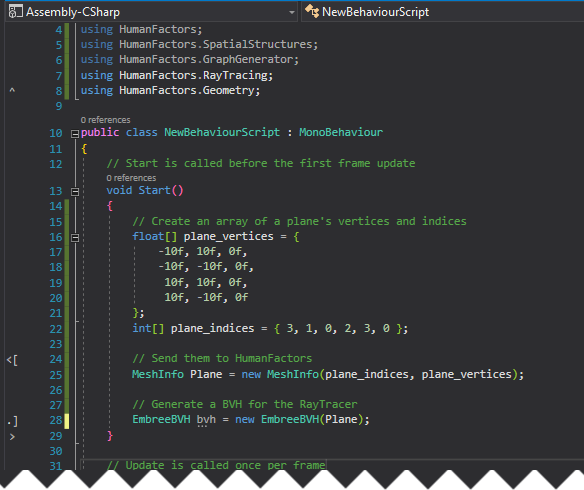
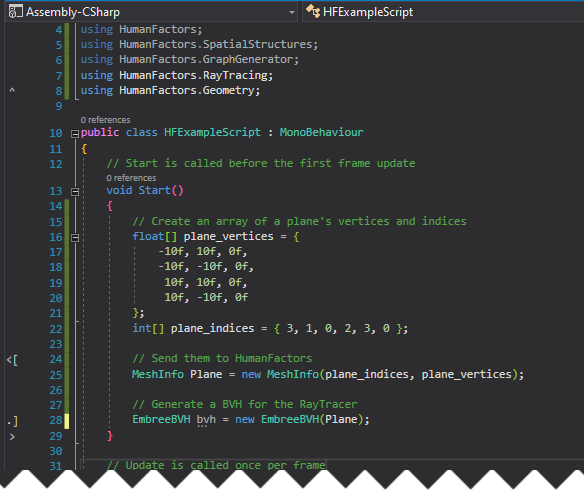
Update images, revise format to match others.

Changed region(s): [[0.2774, 0.2449, 0.6473, 0.2755], [0.524, 0.0, 0.7397, 0.0306]]

diff --git a/docs/C# Documentation/markdown/3_graph_generator.md b/docs/C# Documentation/markdown/3_graph_generator.md
@@ -9,6 +9,7 @@ Next Tutorial: [Passing a Mesh From Unity to HumanFactors](@ref MeshFromUnity)
   - [Intro](#intro)
     - [Conceptual Overview](#conceptual-overview)
   - [Simple Graph Generation](#simple-graph-generation)
+    - [Using Declarations](#using-declarations)
     - [Creating the Plane](#creating-the-plane)
     - [Generating the Graph](#generating-the-graph)
     - [Retrieving A list of nodes](#retrieving-a-list-of-nodes)
@@ -39,7 +40,20 @@ For now, we will begin with the minimum required settings to run the Graph Gener
 2. A point to start graph generation at.
 3. The spacing between nodes.
 
-To get started, we will once again set up our using declarations to import the functionality we need.
+
+![HFExampleScriptBlank](../assets/walkthroughs/unity/2_raycast_at_plane/blank_new_behaviour_script.png)
+
+*Figure* **3.1** *Blank HFExampleScript.cs*
+
+To begin: open up the blank HFExample Script that we created in the project setup by double clicking on it in the Unity editor if it isn't open already. 
+
+### Using Declarations
+
+![Using Declarations](../assets/walkthroughs/unity/3_graph_generator/using_declarations.png)
+
+*Figure* **3.2** *Using declarations for this tutorial*
+
+To get started, we will once again set up our using declarations to import the functionality we need, starting on line 3 of our blank script. 
 
 ```{.cs}
 using HumanFactors;
@@ -49,11 +63,9 @@ using HumanFactors.GraphGenerator;
 using HumanFactors.RayTracing;
 ```
 
-![Using Declarations](../assets/walkthroughs/unity/3_graph_generator/using_declarations.png)
-
 ### Creating the Plane
 
-Internally, the graph uses the *EmbreeRayTracer* which requires a BVH, so we can follow the process as the [Project 2A](@ref UsingTheRayTracer) to create a plane, then generate a BVH from it.
+Internally, the graph uses the *EmbreeRayTracer* which requires a BVH, so we can follow the process as the [Project 2A](@ref UsingTheRayTracer) to create a plane, then generate a BVH from it. If you want a more in depth explanation of this code, please look at the previous tutorial if you want more information about this code.
 
 Add the following code in the body of the Start function on line 13:
 
@@ -81,7 +93,7 @@ Add the following code in the body of the Start function on line 13:
 
 ### Generating the Graph
 
-Now that we have a BVH, let's generate a graph on it. In the code below, we define a starting point for the graph, then we define the spacing between each node.
+Now that we have a BVH, let's generate a graph on it. In the code below, we will define a starting point for the graph, then the spacing between each node.
 
 We'll place our start point 1 meter above the origin of the scene (0,0,1). Starting directly at the origin, (0,0,0), would put the start point inside of the plane we're using for the ground causing the initial ground check to fail.
 
@@ -117,8 +129,9 @@ All of that together is:
 
 ### Retrieving A list of nodes
 
-G now contains a graph of the accessible space on Plane using our settings. For this tutorial we will get a list of all nodes within the graph, and print them to get an idea of where this graph traversed.
+G now contains a graph of the accessible space on Plane using the settings we passed as arguments. To verify that our results are correct, we will get a list of nodes from the graph, then print them to the unity console.
 
+Enter the following code at the bottom of the start method.
 ```{.cs}
         // Get a list of nodes from the graph and print them.
         NodeList nodes = G.getNodes();
@@ -188,15 +201,25 @@ public class HFExampleScript : MonoBehaviour
 }
 ```
 
-Save your script, minimize Visual Studio, then switch back to the Unity Editor. The process for testing this script is identical to the process in [The Raytracer Tutorial]{@ref UsingTheRaytracer}. Attach the script to the main camera, then press the play button and inspect your output.
+Once you've confirmed that your script matches this code, save your script, minimize Visual Studio, then switch back to the Unity Editor.
 
 ![Attach script and test](../assets/walkthroughs/unity/2_raycast_at_plane/drag_into_camera.png)
 
-Like in the previous tutorial, the output is at the bottom of the screen but it's cut off. To get a better view, click on the output to switch over to the console tab, then click on the message containing our output highlighted in blue for a closer look.
+*Figure* **3.3** *Dragging HFExampleScript onto the Main Camera as a component.*
+
+The process for testing this script is identical to the process in [The Raytracer Tutorial]{@ref UsingTheRaytracer}. Attach the script to the main camera, then press the play button and inspect your output.
+
+![Switch To the Console](../assets/walkthroughs/unity/3_graph_generator/click_on_console.png)
+
+*Figure* **3.4** *How to view the Console Tab*
+
+Like in the previous tutorial, the output is at the bottom of the screen, but it doesn't fit in on one line so it's cut off. To get a better view, click on the output itself, or click on the console tab circled in Figure 3.4 to view the console
 
 ![View Console](../assets/walkthroughs/unity/3_graph_generator/console_view.png)
 
-The highlighted text should read:
+*Figure* **3.5** *Highlighted Graph Output and how to switch back to the assets window*
+
+Once in the console window, click on the message containing our output, highlighted in blue in figure 3.5, for a closer look. Like in Figure 3.5, the highlighted text should read:
 
 ```
 [(0.000,0.000,0.000), (-1.000,-1.000,0.000), (-1.000,0.000,0.000), (-1.000,1.000,0.000), (0.000,-1.000,0.000), . . . (10.000,7.000,0.000), (10.000,8.000,0.000), (10.000,9.000,0.000), (10.000,10.000,0.000)]
@@ -204,11 +227,11 @@ The highlighted text should read:
 
 > **Note:**  this is not the full list of nodes. The list has been truncated due to the size of the output. In order to view every node we'll have to print them in a loop.
 
-Switch back to the previous view by clicking on the Project tab just above the blue highlighted message. In the above image this tab is circled in red. After this, exit playmode by clicking on the blue play button at the top of the screen.
+Confirm your results match, then switch back to the previous view by clicking on the Project tab circled in red in Figure 3.5. After that, exit playmode by clicking on the blue play button at the top of the screen. If you've reached this point then you have successfully generated a Graph using Human Factors and have completed this part of the tutorial. Next we will cover cases where the graph generator will be unable to generate a graph, and how to handle if a graph could not be generated.
 
 ## Cases where the GraphGenerator fails
 
-We've covered situations where we know the GraphGenerator will generate a graph, however what about sitauations where we're taking user input, or operating on a new model. 
+We've covered situations where we know the GraphGenerator will generate a graph, however what about sitauations where we're taking user input, or operating on a new model.
 
 ### Checking for success
 
